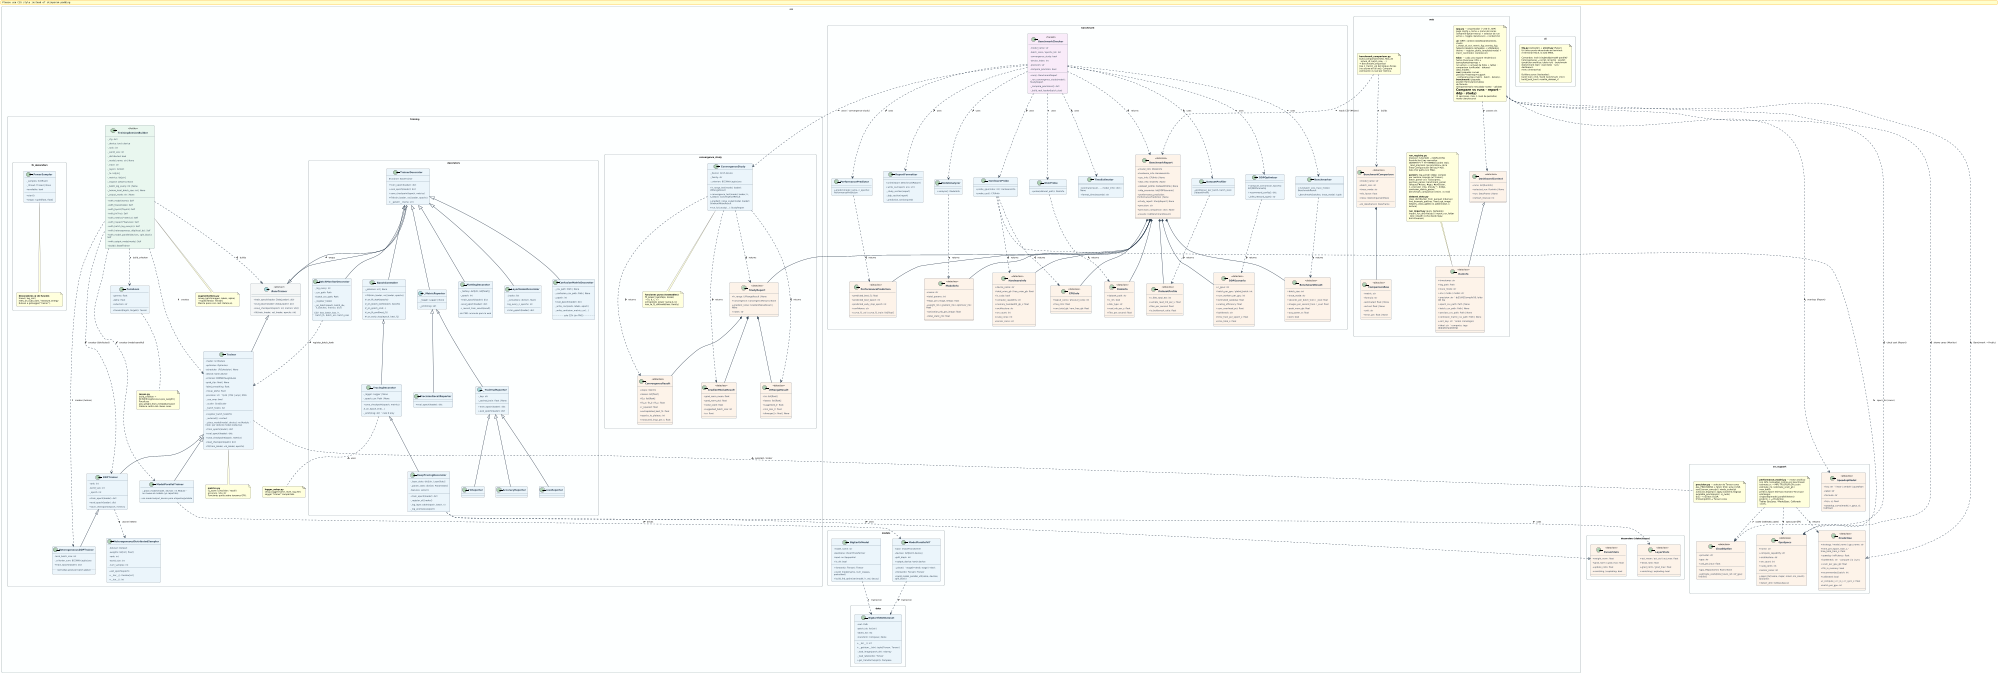
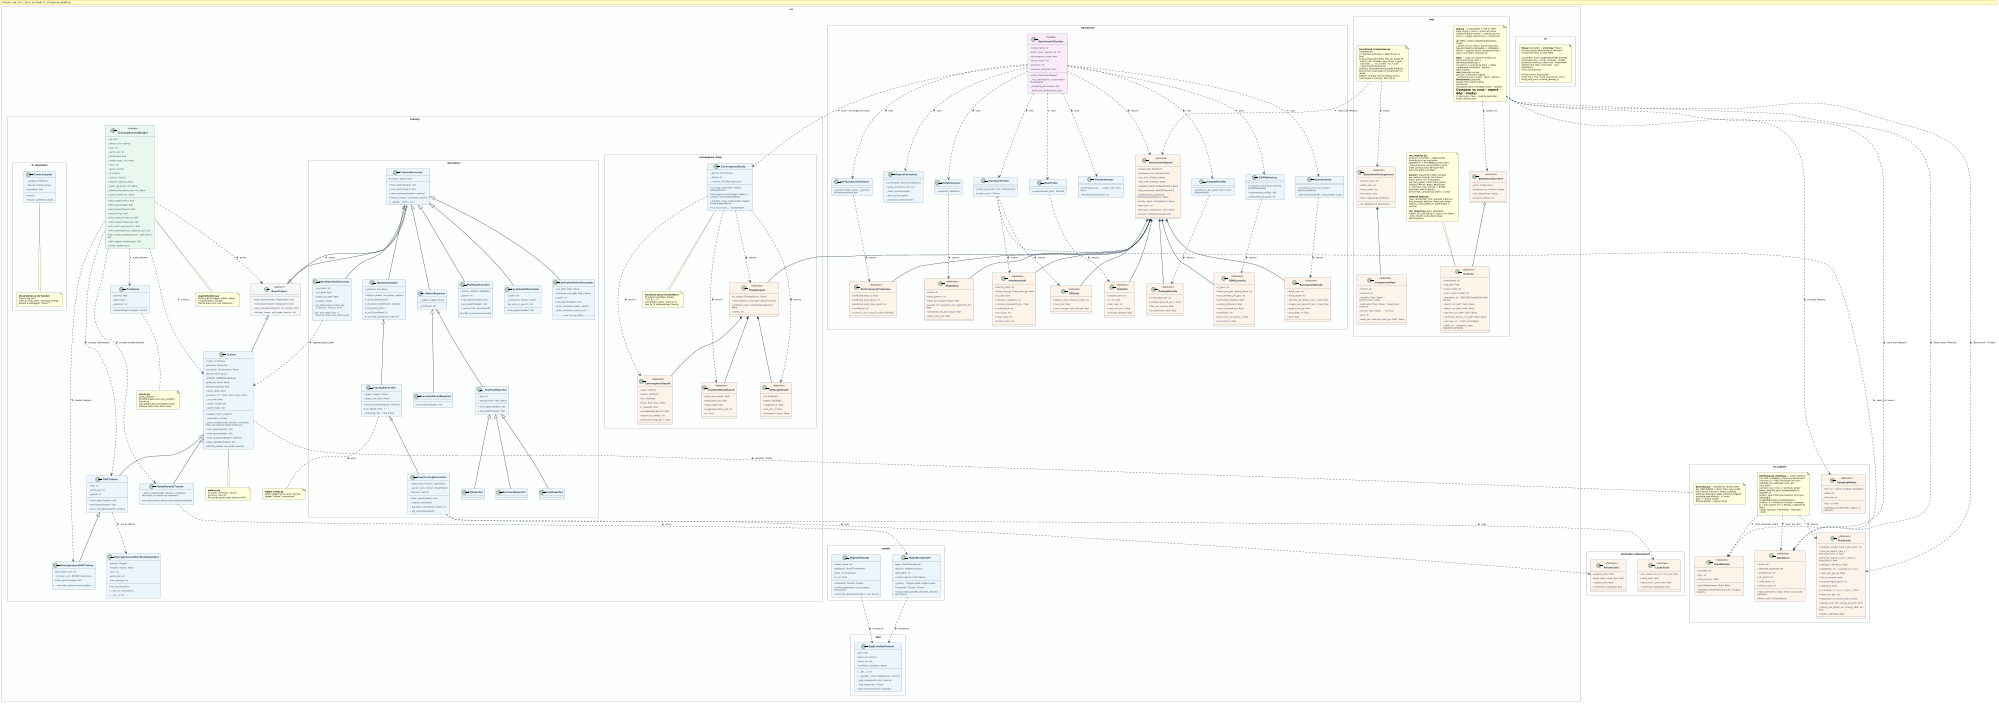
docs: update class diagram (energy + 3-way comparison) and README
Class diagram (.puml + regenerated .svg/.png via Kroki POST + white-bg post-process):
- Prediction gains the eval/total time and energy fields (avg_power_w, power_total_w,
  energy_train/eval/per_epoch/total_wh, power_calibrated).
- ComparisonRow gains the analytic column (+ analytic_error_pct); estimated/actual
  relabelled analytic/benchmark/run.
- performance_model & benchmark_comparison notes describe the energy model and the
  three-way comparison (analytic recomputed for the run's size).

README: the analytic estimate now lists energy alongside time/memory/cost/quality, and
mentions the per-metric analytic-vs-benchmark-vs-run view.

diff --git a/README.md b/README.md
@@ -22,9 +22,10 @@ Este Trabajo de Fin de Grado entrena un modelo **Vision Transformer** para la cl
 multietiqueta de imágenes de satélite Sentinel-2 (**BigEarthNet-S2**, 19 clases de cobertura
 terrestre) y analiza, mediante mediciones reales, **cómo escala el entrenamiento al distribuirlo**
 entre varias GPU o entre GPU y CPU. Junto al modelo, el proyecto proporciona una **estimación
-analítica** que predice tiempo, memoria, coste y calidad *sin necesidad de entrenar*; un **benchmark**
-que la contrasta con medidas empíricas en la propia máquina; y un **panel web** para visualizar y
-comparar los resultados. Toda la funcionalidad se gobierna desde una única herramienta de línea de
+analítica** que predice tiempo, memoria, energía, coste y calidad *sin necesidad de entrenar*; un
+**benchmark** que la contrasta con medidas empíricas en la propia máquina; y un **panel web** para
+visualizar y comparar los resultados (incluida una vista que enfrenta, por métrica, la estimación
+analítica, el benchmark y el entrenamiento real). Toda la funcionalidad se gobierna desde una única herramienta de línea de
 órdenes, **`paravit`**. El sistema desarrollado se denomina **ParaViT-Lab** (*Parallel/Parallax ViT
 Lab*); el antiguo comando `tfg` se conserva como alias retrocompatible.
 
@@ -57,7 +58,7 @@ Constituye la forma más sencilla de utilizar el proyecto: un menú guiado que s
 de manera secuencial, sin necesidad de memorizar ninguna orden. Desde él es posible:
 
 - **Estimar** de forma analítica una configuración mediante fórmulas, **sin GPU**: tiempo, memoria,
-  coste y F1 esperada.
+  energía, coste y F1 esperada.
 - **Entrenar** con la estrategia deseada: una GPU, varias GPU con DDP, paralelismo de modelo o GPU+CPU.
 - **Medir** de forma empírica el rendimiento real de la máquina mediante un *benchmark*.
 - **Evaluar** un modelo sobre el conjunto de test.